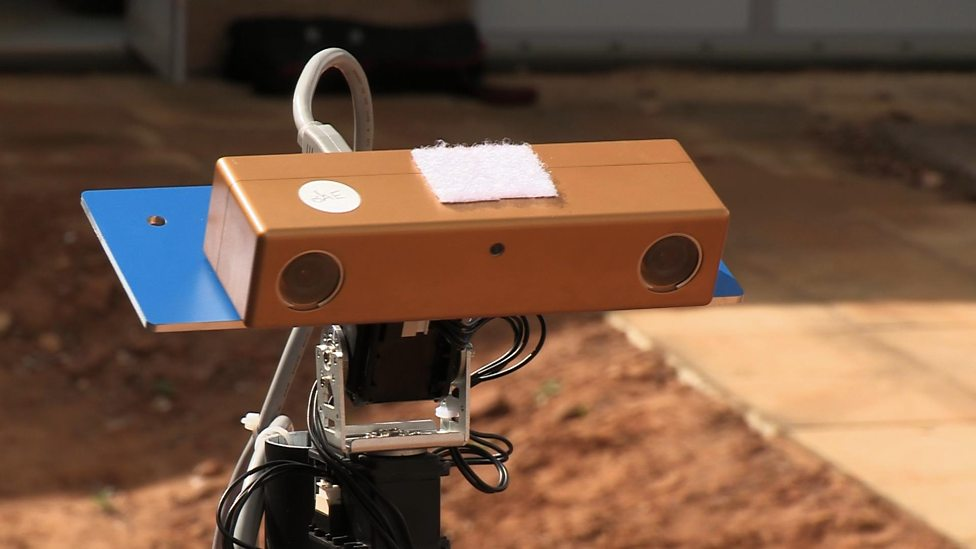
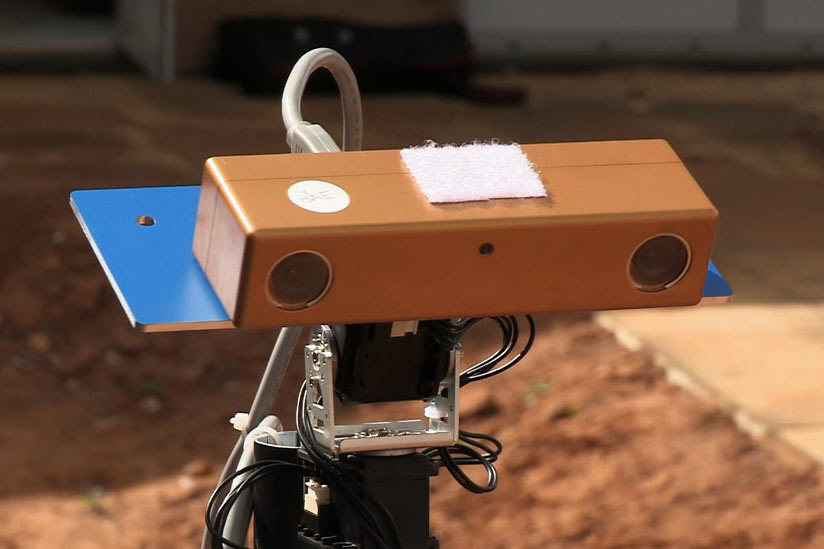
Added more information to About page, resized space image, corrected typos

diff --git a/exploring-space-with-computers.html b/exploring-space-with-computers.html
@@ -56,11 +56,11 @@
                             <div class="row">
                             	<div class="col-lg-8">
                             		<p class="lead">"Space is big. Really big." But can computers change that? Computers have played a vital role in improving almost every aspect of space technology.</p>
-                            	    <p>Without computers the space race wouldn't have seen as much advancements as it currently has. Computers help us in designing spacecrafts, simulating the working of the engine, planning the trajectory and velocity, finding faults or problems within the mission and much more.</p>
+                            	    <p>Without computers the space race wouldn't have seen as many advancements as it currently has. Computers help us in designing spacecrafts, simulating the working of the engine, planning the trajectory and velocity, finding faults or problems within the mission, and much more.</p>
                                     <p>Special computers are used to control rockets and fly them to their target orbit. They read sensor data and decide whether the sensors are properly functioning or faulty, and calculate the location, speed and direction of the rocket. Computers are also required to maintain contact between the spacecraft and the command centre. Some computers execute the final seconds of the launch countdown and make sure that all events happen at the right time.</p>
-                                    <p>One example of how computers have helped in exploring space is NASA's rover, Curiosity, which landed on the surface of Mars to help determine whether Mars could have ever supported life. Sensor information is handled by using 'if, then and else’ logic to help Curiosity navigate the unfamiliar environment. <a href="https://www.bbc.co.uk/news/science-environment-43494227">It has made many remarkable observatons</a> and has helped scientists in studying the climate and geology of Mars.</p>
+                                    <p>One example of how computers have helped in exploring space is NASA's rover, Curiosity, which landed on the surface of Mars to help determine whether Mars could have ever supported life. Sensor information is handled by using 'if, then and else' logic to help Curiosity navigate the unfamiliar environment. <a href="https://www.bbc.co.uk/news/science-environment-43494227">It has made many remarkable observatons</a> and has helped scientists in studying the climate and geology of Mars.</p>
                                     <p>Another amazing feat is that <a href="https://www.sciencealert.com/most-advanced-illustris-next-generation-computer-model-universe-simulations">the universe has been recreated in a massive computer simulation</a>. It's clear to see how greatly this helps us in further understanding the infinite reaches of space. Of course, the simulation is not without its anomalies, but it nevertheless will help us formulating hypotheses and testing theories.</p>
-                                    <p>It is astounding to see how much space exploration has developed. Computers have made our world much smaller, enabling us to communicate with people on the other side of the globe. Will computers be able to do the same for space? Probably not in our lifetimes, but it such a future might not just be a pipe-dream.</p>
+                                    <p>It is astounding to see how much space exploration has developed. Computers have made our world much smaller, enabling us to communicate with people on the other side of the globe. Will computers be able to do the same for space? Probably not in our lifetimes, but such a future might not just be a pipe dream.</p>
 
                             	</div>
                             </div>                            

diff --git a/supercomputing-weather.html b/supercomputing-weather.html
@@ -55,7 +55,7 @@
 
                             <div class="row">
                             	<div class="col-lg-8">
-                            		<p class="lead">Supercomputers are used for weather forecasts by running through thousands of different simulations using information recorded by weather planes that have recorded atmospheric pressure and humidty.</p>
+                            		<p class="lead">Supercomputers are used for weather forecasts by running through thousands of different simulations using information recorded by weather planes that have recorded atmospheric pressure and humidity.</p>
                             		<p>Supercomputers get their power from thousands of processor cores which means the computer is able to perform multiple calculations at once. The huge number of cores is coupled with a massive amount of RAM that is in the region of 500TB+. All of the weather modelling is done through advanced and very complex mathematics that would take weeks if it was done by hand. The process of forecasting is known as numerical weather prediction. This includes calculations such as three-dimensional fluid dynamics that have been adapted from two-dimensional fluid dynamics as even in two dimensions fluid dynamics is still not fully understood. The <a href="https://en.wikipedia.org/wiki/Navier%E2%80%93Stokes_equations">Navier-Stokes equation</a> helps to bridge the gap between the two dimensions. The forecasts that you see on your television or phone every day is just the forecast model that had the highest probability of occurring.<a href="#references">¹</a>
                                     <br><br>
                                     The main reason that forecasts are quite often wrong is due to the chaotic nature of the partial differential equations, that are included in the Navier-Stokes equation, that govern the movement of clouds and warm air in the atmosphere. Since, at the moment, it is impossible to solve the equations exactly, the errors grow the further down the timeline the forecast is calculating. Hence you should only look at the forecast for perhaps the next day and not a week's time.<a href="#references">²</a>

diff --git a/michael.html b/michael.html
@@ -51,12 +51,12 @@
                             		<img src="img/michael.png" class="img-fluid">
                             	</div>
                             	<div class="col-lg-9">
-                            		<p>Michael, who comes from South West England, was attracted to Durham University due to its historic nature and the beautiful scenery that surrounds the area. His hobby of photography has earned him a fair amount of awards and recognition. Apart from this, Michael has worked on a number of coding and video projects.</p>
+                            		<p>Michael, who comes from South West England, was attracted to Durham University due to its historic nature and the beautiful scenery that surrounds the area. His hobby of photography has earned him a fair number of awards and recognition. Apart from this, Michael has worked on a number of coding and video projects.</p>
 									<p>Some interesting facts about Michael:</p>
                             		<ul>
-                            			<li>He has had his photos published by the BBC.</li>
-                            			<li>He has a particular interest in web designing.</li>
-                            			<li>He has <a href="https://michael-crilly.com/">his own website</a>.</li>
+                            			<li>He has had his photos published by the BBC</li>
+                            			<li>He has a particular interest in web designing</li>
+                            			<li>He has <a href="https://michael-crilly.com/">his own website</a></li>
                             		</ul>
                             	</div>
                             </div>

diff --git a/about.html b/about.html
@@ -48,8 +48,9 @@
 
                             <div class="row">
                             	<div class="col-lg-8">
-                            		<p class="lead">This website was created for our formative assignment the articles listed are all focused on describing the applications of computing that make a positive contribution to society.</p>
-                            		<p>All of our articles include links to external pages where you can find more information and much more detail into any of the topics covered. Also included in the webpage is a small section on each article's author so you can learn a little bit about them.</p>
+                            		<p class="lead">This website was created for our Programming (COMP1101) formative assignment. The articles listed are all focused on describing the applications of computing that make a positive contribution to society.</p>
+                            		<p>All of our articles include links to external pages where you can find more information and much more detail into any of the topics covered. Also included in the webpage is a small section on each article's author, so you can learn a little bit about them.</p>
+                                    <p>We have carefully selected the topic for each article based on our own interests, and we hope you enjoy reading them!</p>
                             	</div>
                             </div>                            
 

diff --git a/anikait.html b/anikait.html
@@ -51,11 +51,11 @@
                             		<img src="img/anikait.png" class="img-fluid">
                             	</div>
                             	<div class="col-lg-9">
-                            		<p>Anikait is originally from India, he decided to come to Durham University because of it's high ranking and the collegiate system. In his spare time he enjoys coding, reading science fiction and playing video games.</p>
+                            		<p>Anikait is originally from India, he decided to come to Durham University because of its high ranking and the collegiate system. In his spare time he enjoys coding, reading science fiction and playing video games.</p>
                             		<ul>
                             			<li>His favourite programming language is C++</li>
-                            			<li>His favourite genre of video games are roguelikes</li>
-                            			<li>Hated every subject in school apart from Computer Science</li>
+                            			<li>His favourite video games are roguelikes</li>
+                            			<li>He hated every subject in school apart from Computer Science</li>
                             		</ul>
                             	</div>
                             </div>
